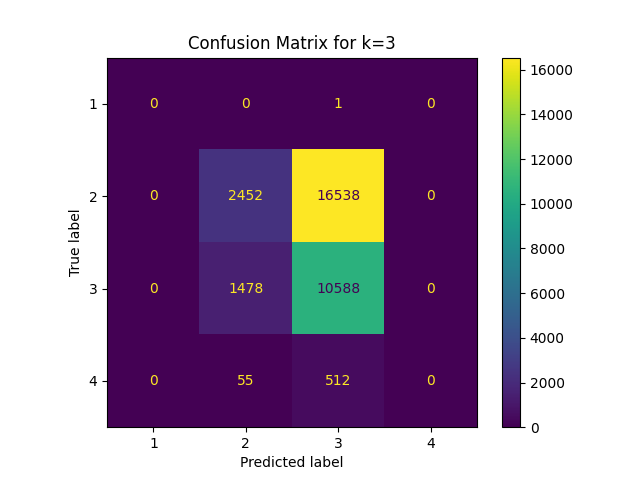
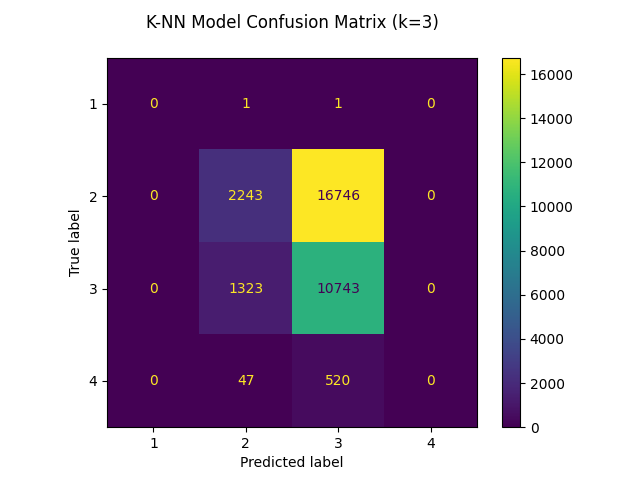
Refactor code structure for improved readability and maintainability

diff --git a/supervised_learning_knn/knn.py b/supervised_learning_knn/knn.py
@@ -159,33 +159,46 @@ def main():
     y = data['SEVERITY']
     ncols = len(Xcol)
 
-    print(y.value_counts())
+    # print(y.value_counts())
+
     # separate data into training and testing sets
     # do not touch the test set
     X_train, X_test, y_train, y_test = separate_data(X, y, ncols)
 
+    # standardize the data
+    scaler = StandardScaler().fit(X_train)
+    X_train = scaler.transform(X_train)
+
+    # y_train = pd.Series(y_train)
+    # y_test = pd.Series(y_test)
+    # print('Training set:')
+    # print(y_train.value_counts())
+    # print('Testing set:')
+    # print(y_test.value_counts())
+
     # determine best k using the training set
-    best_k(X_train, y_train, ncols)
+    # best_k(X_train, y_train, ncols)
     # from the result, k=5 is chosen as it has the best f1 score given similar accuracy
 
     # train the KNN model with the best k value on the entire training set
-    # k = 3
-    # knn = KNN(n_neighbors=k)
-    # knn.fit(X_train, y_train)
+    k = 50
+    knn = KNN(n_neighbors=k)
+    knn.fit(X_train, y_train)
 
-    # # run the model on the test set
-    # y_pred = knn.predict(X_test)
+    # run the model on the test set
+    y_pred = knn.predict(X_test)
 
-    # # produce the classification report
-    # print(classification_report(y_test, y_pred, zero_division=0))
+    # print the classification report for the model
+    print(f'Classification report for k={k}:\n')
+    print(classification_report(y_test, y_pred, zero_division=0))
 
-    # # plot the confusion matrix
-    # cm = confusion_matrix(y_test, y_pred, labels=[1, 2, 3, 4])
-    # disp = ConfusionMatrixDisplay(confusion_matrix=cm, display_labels=[1, 2, 3, 4])
+    # plot the confusion matrix
+    cm = confusion_matrix(y_test, y_pred, labels=[1, 2, 3, 4])
+    disp = ConfusionMatrixDisplay(confusion_matrix=cm, display_labels=[1, 2, 3, 4])
 
-    # disp.plot()
-    # plt.title(f'Confusion Matrix for k={k}')
-    # plt.savefig(f'confusion_matrix_k={k}_{Xcol}.png')
+    disp.plot()
+    plt.title(f'K-NN Model Confusion Matrix (k={k})\n')
+    plt.savefig(f'confusion_matrix_k={k}_{Xcol}.png')
 
     return
 
